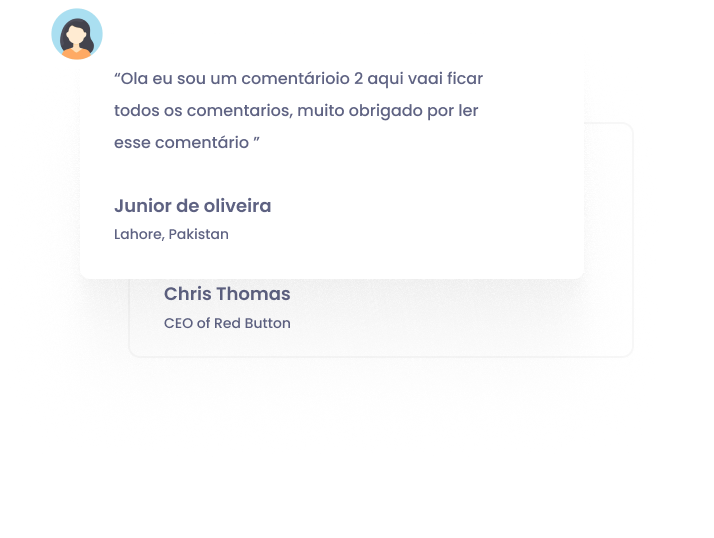
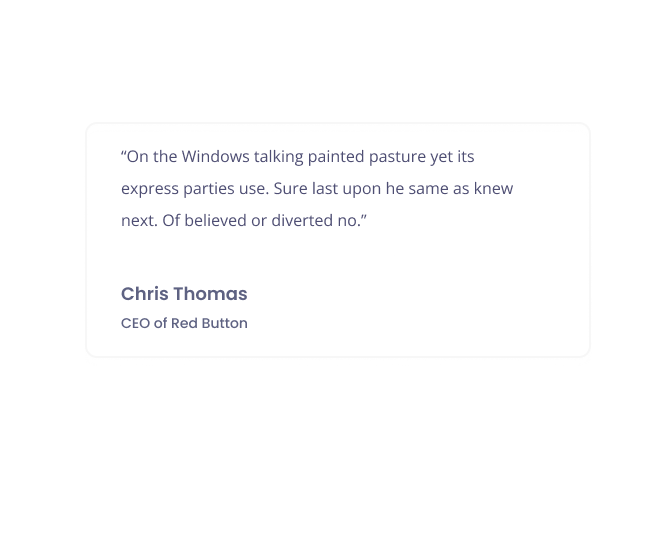
alterar coment vew with, onclick

diff --git a/src/components/_external-pages/landing/coments.js b/src/components/_external-pages/landing/coments.js
@@ -1,20 +1,29 @@
 // material
-import { useTheme, styled } from '@mui/material';
+import { Card, styled } from '@mui/material';
 import { Box, Grid, Container, Typography, Stack, } from '@mui/material';
 //
-import { MotionInView, varFadeInDown, varFadeInRight, fadeInUp } from '../../animate';
+import { MotionInView, varFadeInDown, varFadeInRight,varFadeInUp } from '../../animate';
 import { motion } from 'framer-motion';
-import { Swiper, SwiperSlide } from 'swiper/react';
-import { Pagination } from 'swiper/modules';
-import 'swiper/css';
-import 'swiper/css/pagination';
+import { useState } from 'react';
 
 // ----------------------------------------------------------------------
 
 
 
+const CoverImgStyle = styled('img')({
+    top: 0,
+    width: '100%',
+    height: '100%',
+    objectFit: 'cover',
+    WebkitUserDrag: 'none',
+    MozUserDrag: 'none',
+    MsUserDrag: 'none',
+    userDrag: 'none',
+    cursor: 'pointer'
 
-const Cards = [1, 2, 3]
+});
+
+const Cards = [0, 1, 2, 3, 4]
 
 const RootStyle = styled('div')(({ theme }) => ({
     width: "100%",
@@ -36,6 +45,27 @@ const HeroOverlayStyle = styled(motion.img)({
 // ----------------------------------------------------------------------
 
 export default function Coments() {
+    const [value, setValue] = useState(2);
+    function TabPanel(props) {
+        const { children, value, index, ...other } = props;
+
+        return (
+            <div
+                role="tabpanel"
+                hidden={value !== index}
+                id={`tabpanel-${index}`}
+                aria-labelledby={`tab-${index}`}
+                {...other}
+            >
+                {value === index && (
+                    <Box sx={{ p: 3 }}>
+                        <Typography>{children}</Typography>
+                    </Box>
+                )}
+            </div>
+        );
+    }
+
     return (
         <RootStyle>
             <Container maxWidth="lg" >
@@ -47,12 +77,12 @@ export default function Coments() {
                     <Grid item xs={10} md={5}>
                         <motion.div variants={varFadeInRight}>
                             <Typography variant="b">
-                            Testimonials
+                                Testimonials
                             </Typography>
                             <br />
                             <Typography variant="h2" >
-                            O que as pessoas dizem
-                            sobre nós.
+                                O que as pessoas dizem
+                                sobre nós.
 
                             </Typography>
                         </motion.div>
@@ -67,23 +97,44 @@ export default function Coments() {
                     <Grid item xs={10} md={6}>
                         <Stack spacing={5} direction={{ xs: 'column', md: 'row' }} justifyContent="space-between">
                             <Container maxWidth="lg" sx={{ position: 'relative', textAlign: 'center' }}>
-                                <Box sx={{ position: 'relative' }}>
-                                    <Box sx={{ position: 'absolute', top: 0 }}>
-                                        <Box sx={{ position: 'relative', zIndex: 9 }}>
-                                            <MotionInView variants={varFadeInDown}>
-                                                <motion.div animate={{ y: [0, -20, 0] }} transition={{ duration: 8, repeat: Infinity }}>
-                                                    <img alt="sidebar" src={`/static/mock-images/imageHome/coment1.png`} />
-                                                </motion.div>
-                                            </MotionInView>
-                                        </Box>
-                                    </Box>
+                                <Box sx={{ width: '100%' }}>
+
+                                    {/* Painéis das Abas */}
+                                    {Cards.map((tab, index) => (
+                                        <TabPanel key={index} value={value} index={index}>
+                                            <Box sx={{ position: 'relative' }}>
+                                                <Box sx={{ position: 'absolute', top: 0 }}>
+                                                    <Box sx={{ position: 'relative', zIndex: 9 }}>
+                                                        <MotionInView variants={varFadeInDown}>
+                                                            <motion.div animate={{ y: [0, -20, 0] }} transition={{ duration: 8, repeat: Infinity }}>
+                                                                <img alt="sidebar" src={`/static/mock-images/imageHome/coment1.png`} />
+                                                            </motion.div>
+                                                        </MotionInView>
+                                                    </Box>
+                                                    <Box sx={{ position: 'absolute', top: 0 }}>
+                                                        <MotionInView variants={varFadeInUp}>
+                                                            <motion.div animate={{ y: [-10, 10, -10] }} transition={{ duration: 8, repeat: Infinity }}>
+                                                                <img alt="sidebar" src={`/static/mock-images/imageHome/coment0.png`} />
+                                                            </motion.div>
+                                                        </MotionInView>
+                                                    </Box>
+                                                </Box>
+                                            </Box>
+                                        </TabPanel>
+                                    ))}
                                 </Box>
                             </Container>
                         </Stack>
                     </Grid>
                 </Grid>
-                <Box sx={{height: 100}}/>
-                <img alt="sidebar" src={`/static/mock-images/imageHome/logosmark.png`} style={{marginTop:60}}/>
+
+
+                <Box sx={{ height: 100 }} />
+                <Box sx={{ display: "flex", marginTop: 10 }}>
+                    {Cards.map((tab, index) => (
+                        <Card onClick={() => { setValue(index) }} sx={{ width: "100%", margin: 2, boxShadow: value != index && 'none' }}><CoverImgStyle sx={{ filter: value != index && 'grayscale(100%)' }} alt="sidebar" src={`/static/mock-images/imageHome/marca${index}.png`} /></Card>
+                    ))}
+                </Box>
             </Container>
         </RootStyle>
     );
